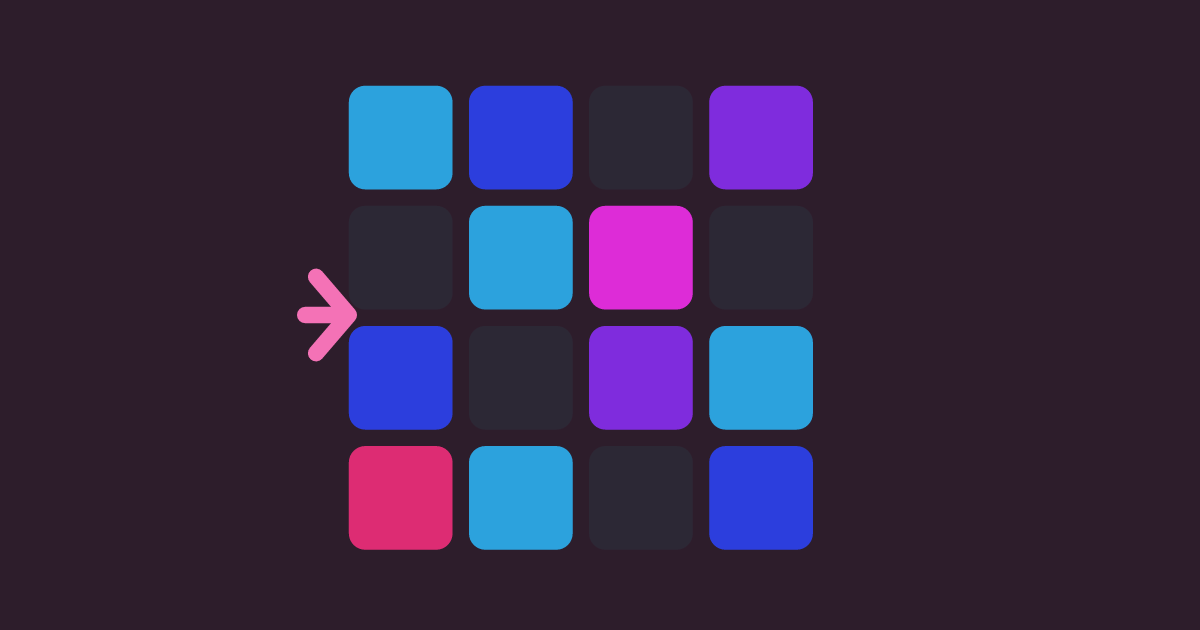
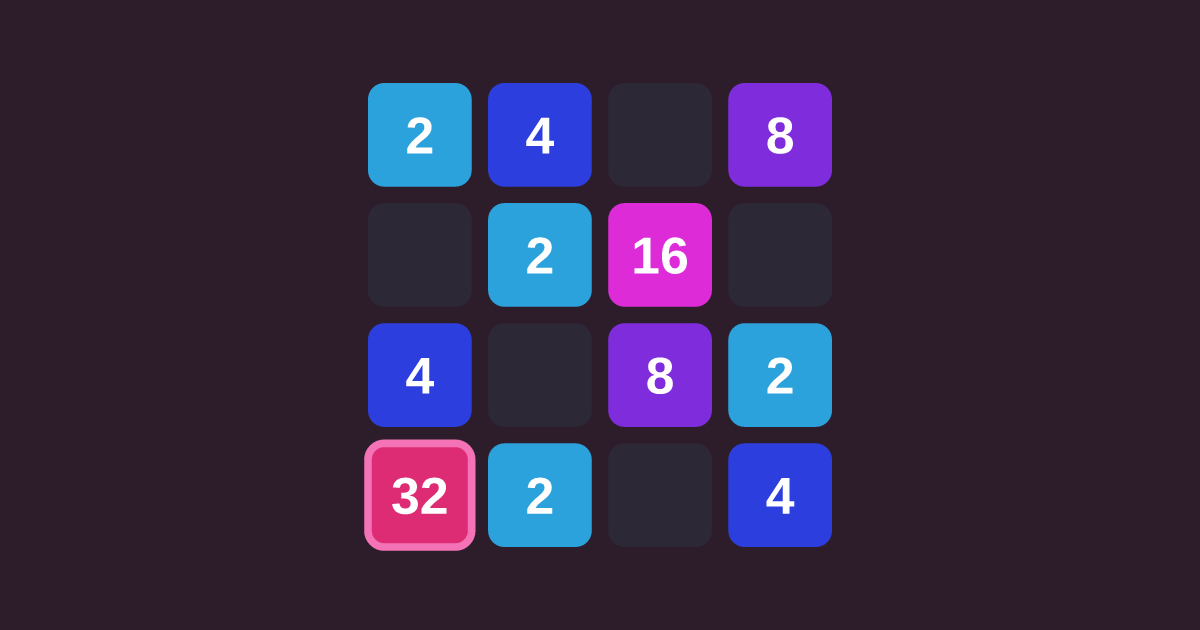
ui: number the Double Fusion card tiles and drop its arrow
The card's tiles now carry the number their colour stands for, 2 to 32, drawn from the game's own colour ramp, and the arrow is gone. The grid is recentred without it, and the biggest tile keeps the card's accent as an outline, which the card test requires. The alt text, link preview and spec describe numbered tiles.

Changed region(s): [[0.2775, 0.1206, 0.7092, 0.8746], [0.2467, 0.4222, 0.4933, 0.8746], [0.5858, 0.1206, 0.7092, 0.3016]]

diff --git a/www/src/games/merge-rush/card.ts b/www/src/games/merge-rush/card.ts
@@ -19,7 +19,7 @@ export const CARD: GameCard = {
     'Everyone starts on the same board. Tap a thumbnail to watch that player live.',
     'Crescendo: puzzles that grow a tile a level. Race: first to the tile. Highlander: merge down to one.',
   ],
-  art: { src: art, alt: 'A four-by-four board of coloured tiles, some merged into brighter ones, an arrow sweeping across it' },
+  art: { src: art, alt: 'A four-by-four board of numbered, coloured tiles, some of them merged into bigger ones' },
   fr: {
     pitch: 'Glissez, fusionnez, grimpez. Dépassez toute la salle',
     concept: 'Faites glisser les tuiles, fusionnez les nombres égaux et regardez les plateaux des autres grimper à côté du vôtre.',
@@ -28,7 +28,7 @@ export const CARD: GameCard = {
       'Tout le monde part du même plateau. Touchez une miniature pour suivre ce joueur en direct.',
       'Crescendo : des puzzles qui gagnent une tuile par niveau. Course : le premier à la tuile. Highlander : fusionnez jusqu’à une seule.',
     ],
-    art: { alt: 'Un plateau de quatre par quatre de tuiles colorées, certaines fusionnées en tuiles plus vives, une flèche qui le traverse' },
+    art: { alt: 'Un plateau de quatre par quatre de tuiles numérotées et colorées, certaines fusionnées en tuiles plus grosses' },
   },
   accent: '#F472B6',
   players: PLAYERS['merge-rush'],

diff --git a/www/merge-rush/index.html b/www/merge-rush/index.html
@@ -23,7 +23,7 @@
     <meta property="og:image" content="https://fonygames.guigui.fr/og/merge-rush.png" />
     <meta property="og:image:width" content="1200" />
     <meta property="og:image:height" content="630" />
-    <meta property="og:image:alt" content="A four-by-four board of coloured tiles, some merged into brighter ones, an arrow sweeping across it" />
+    <meta property="og:image:alt" content="A four-by-four board of numbered, coloured tiles, some of them merged into bigger ones" />
     <meta name="twitter:card" content="summary_large_image" />
     <script type="application/ld+json">
       {

diff --git a/docs/specs/games/merge-rush.md b/docs/specs/games/merge-rush.md
@@ -4,7 +4,7 @@
 | --- | --- |
 | **Slug** | `merge-rush` |
 | **Catchy sentence** | Slide, merge, climb. Out-score the whole room |
-| **Illustration** | `www/src/games/merge-rush/art/card.svg` — a 4×4 grid of coloured tiles, a few merged into bigger ones, an arrow sweeping across it |
+| **Illustration** | `www/src/games/merge-rush/art/card.svg` — a 4×4 grid of numbered, coloured tiles (2 to 32), a few merged into bigger ones |
 | **Players** | 1–8 |
 | **Round length** | 3 min (Highlander); untimed for Crescendo and a race — until somebody finishes |
 | **Inputs** | touch |
